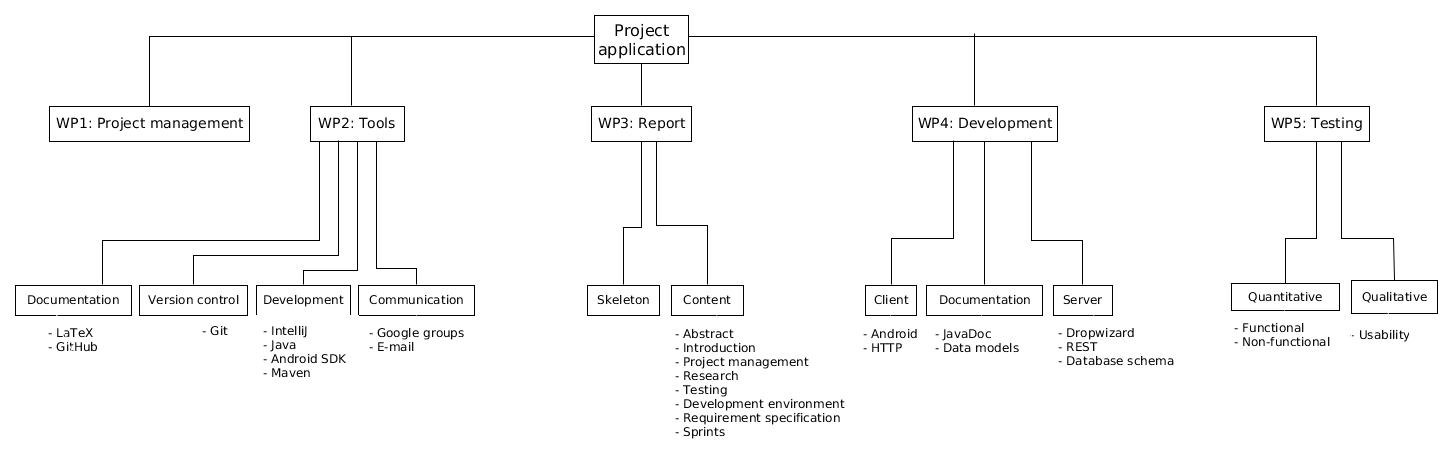
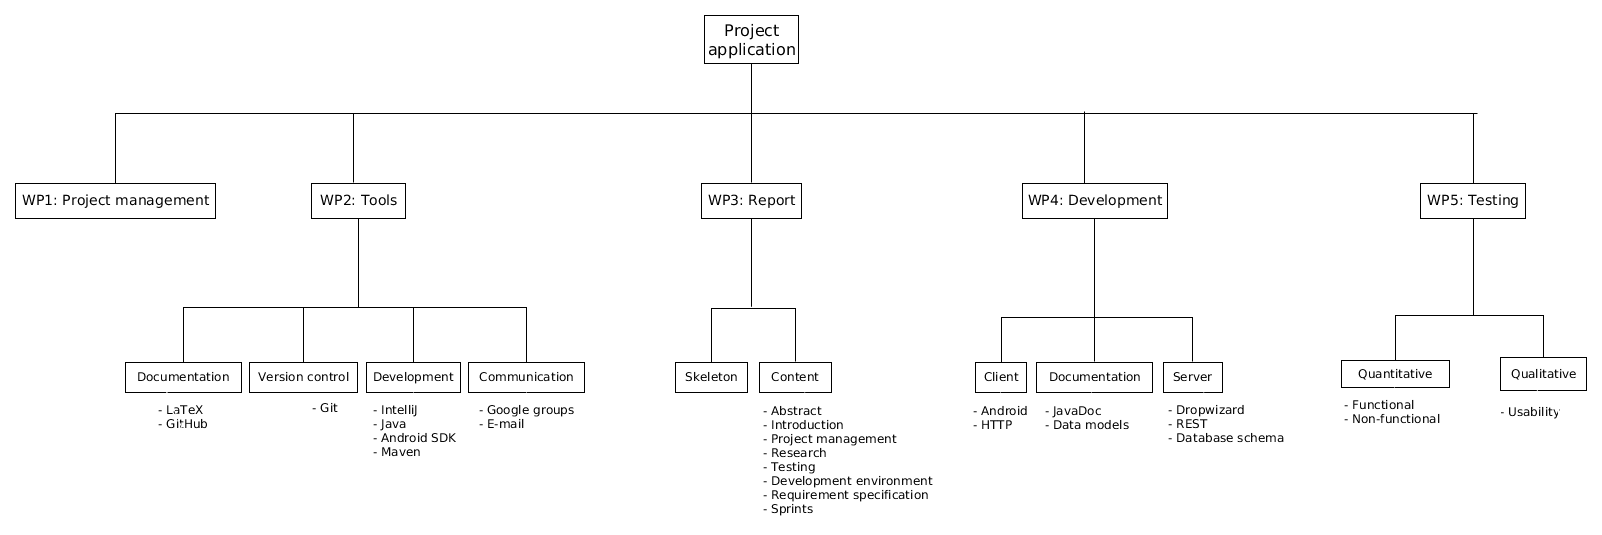
Updated wbs-section and illustration

diff --git a/report/ch/planning/sec/wbs.tex b/report/ch/planning/sec/wbs.tex
@@ -2,30 +2,28 @@
 
 \begin{figure}[H]
 \includegraphics[width=\textwidth]{ch/planning/fig/wbs.png}
-\caption{The work breakdown structure. Each work package (WP) is a product of the project work.}
+\caption{Product oriented work breakdown structure for the project application.}
 \label{fig:wbs}
 \end{figure}
 
-\todo[inline]{@peri: is wbs-packet correct? should it be wp (as in work package?)}
+As shown in figure~\ref{fig:wbs}, the Work Breakdown Structure (WBS) is divided into five work packages(WP). Each work package represents a subset of the project. Specifically, it specifies \emph{what} will be done, and not how or when the work is to be performed.
 
-The work breakdown structure \ref{fig:wbs} is divided into five parts. Each part is a work package that represents a part of the work that needs to be done.
-The team decided to use WBS is so that we may analyze how much time that is actually spent on the different parts of the project, compared to how it originally was planned.
-The effect of doing this is that it is easy to see whether some part of the project is forgotten or \todo[inline]{gets too much time.}
+The team used WBS in order to get an overview of what the different parts of the project consisted of, and used this information when we estimated how much time we wanted to use on each work package.
+
+The estimated time for each work package is given in table~\ref{tab:timeEstWP}. By comparing the original time estimates to how much time that actually was spent, we were able to evaluate our project's progress to a much greater extent. It was easier to see whether some part of the project was forgotten, and if it should have been estimated more  or less time to complete it.
 
 \begin{table}[H]
 \centering
 \rowcolors{1}{darkgray}{lightgray}
-\begin{tabular}{|l|c|r|}
+\begin{tabular}{|l|c|c|r|}
 \hline
-    \textbf{WB \#} & \textbf{Name} & \textbf{Hours} \\\hline
-    1 & Project management & .5/10 = 87\\\hline
-    2 & Tools 			   & 1.5/10 = 261\\\hline
-    3 & Report 			   & 4/10 = 696\\\hline
-    4 & Development 	   & 3/10 = 522\\\hline
-    5 & Testing  		   & 1/10 = 174\\\hline
+    \textbf{WP \#} & \textbf{Name} & \textbf{Percentage} & \textbf{Hours} \\\hline
+    1 & Project management & 5 & 87\\\hline
+    2 & Tools 			   & 15 & 261\\\hline
+    3 & Report 			   & 40 & 696\\\hline
+    4 & Development 	   & 30 & 522\\\hline
+    5 & Testing  		   & 10 & 174\\\hline
 \end{tabular}
+\caption{Time estimate for work packages}
+\label{tab:timeEstWP}
 \end{table}
-
-From the total amount of hours for project, the team has divided each WBS packet into a smaller part, based on how much time the team should use one the given part.
-
-For each sprint the team can see how much time that has been spent on each packet, \todo{and if time is beeing distributed according to the planned amount of time on each packet.}
